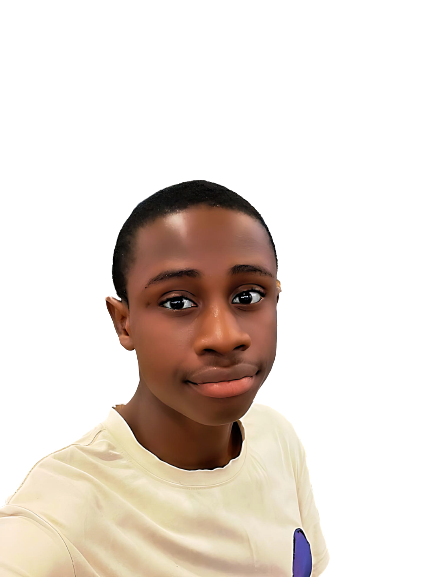
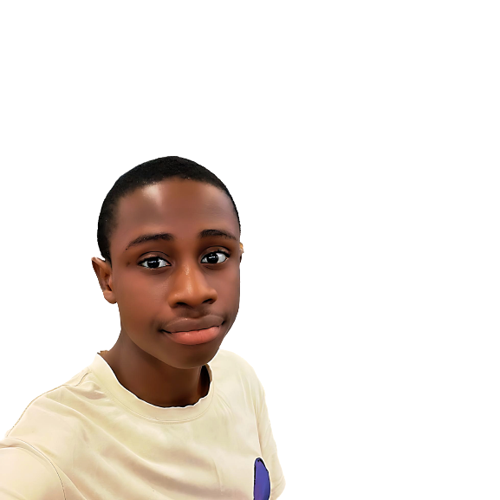
my_porfolio

diff --git a/css/style.css b/css/style.css
@@ -310,6 +310,8 @@ span {
   border-radius: 50%;
   box-shadow: 0 0 1rem var(--main-color);
   animation: floatImage 2s ease-in-out infinite;
+  object-fit: cover;
+  object-position: right center;
 }
 
 .heading {
@@ -663,17 +665,26 @@ span {
   overflow: hidden;
 }
 
+.light-mode .loader {
+  background: #f5f5f5;
+}
+
 .loader_hidden {
   opacity: 0;
   visibility: hidden;
 }
 
 .wlc_txt {
+  color: var(--text-color);
   font-size: 4rem !important;
   text-align: center;
   -webkit-box-reflect: below 1px linear-gradient(transparent, #0000001f);
   line-height: 1em;
   text-shadow: 0 0 5px #fff, 0 0 10px #fff;
+}
+
+.light-mode .wlc_txt {
+  color: var(--bg-color);
 }
 
 #matrix {

diff --git a/js/style-switcher.js b/js/style-switcher.js
@@ -22,7 +22,7 @@ const setActiveStyle = color => {
   localStorage.setItem('selectedColor', color);
 };
 
-// const selectedColor = localStorage.getItem('selectedColor');
-// if (selectedColor) {
-//   setActiveStyle(selectedColor);
-// }
+const selectedColor = localStorage.getItem('selectedColor');
+if (selectedColor) {
+  setActiveStyle(selectedColor);
+}
